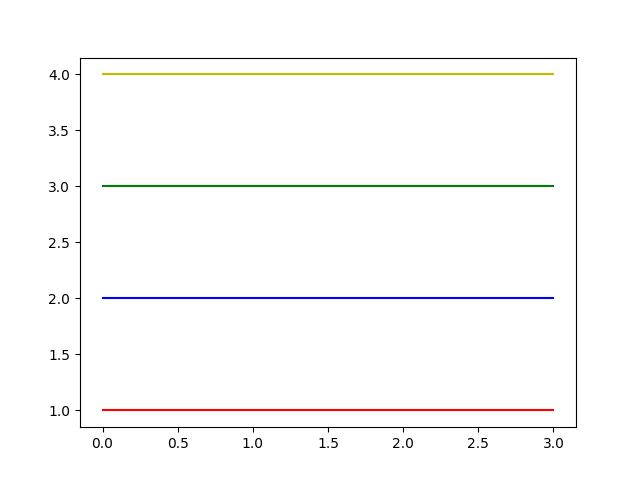
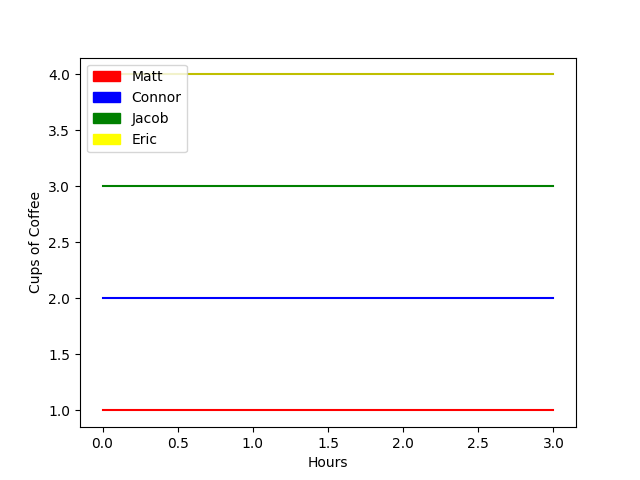
coffee work

Changed region(s): [[0.125, 0.125, 0.3125, 0.3125], [0.0312, 0.4062, 0.0625, 0.625], [0.4688, 0.9375, 0.5312, 0.9688]]

diff --git a/src/dependencies/coffee.py b/src/dependencies/coffee.py
@@ -1,9 +1,17 @@
 import matplotlib.pyplot as plt
+import matplotlib.patches as mpatches
 import numpy as np
 
 
 def generate(matt = [1,1,1,1], connor = [2,2,2,2], jacob = [3,3,3,3], eric = [4,4,4,4]):
     plt.plot(matt, 'r', connor, 'b', jacob, 'g', eric, 'y' )
+    matt_patch = mpatches.Patch(color = 'red', label = 'Matt')
+    connor_patch = mpatches.Patch(color='blue', label='Connor')
+    jacob_patch = mpatches.Patch(color='green', label='Jacob')
+    eric_patch = mpatches.Patch(color='yellow', label='Eric')
+    plt.xlabel('Hours')
+    plt.ylabel('Cups of Coffee')
+    plt.legend(loc='upper left', handles = [matt_patch,connor_patch,jacob_patch,eric_patch])
     plt.savefig('..\static\coffee.png')
     pass
 
